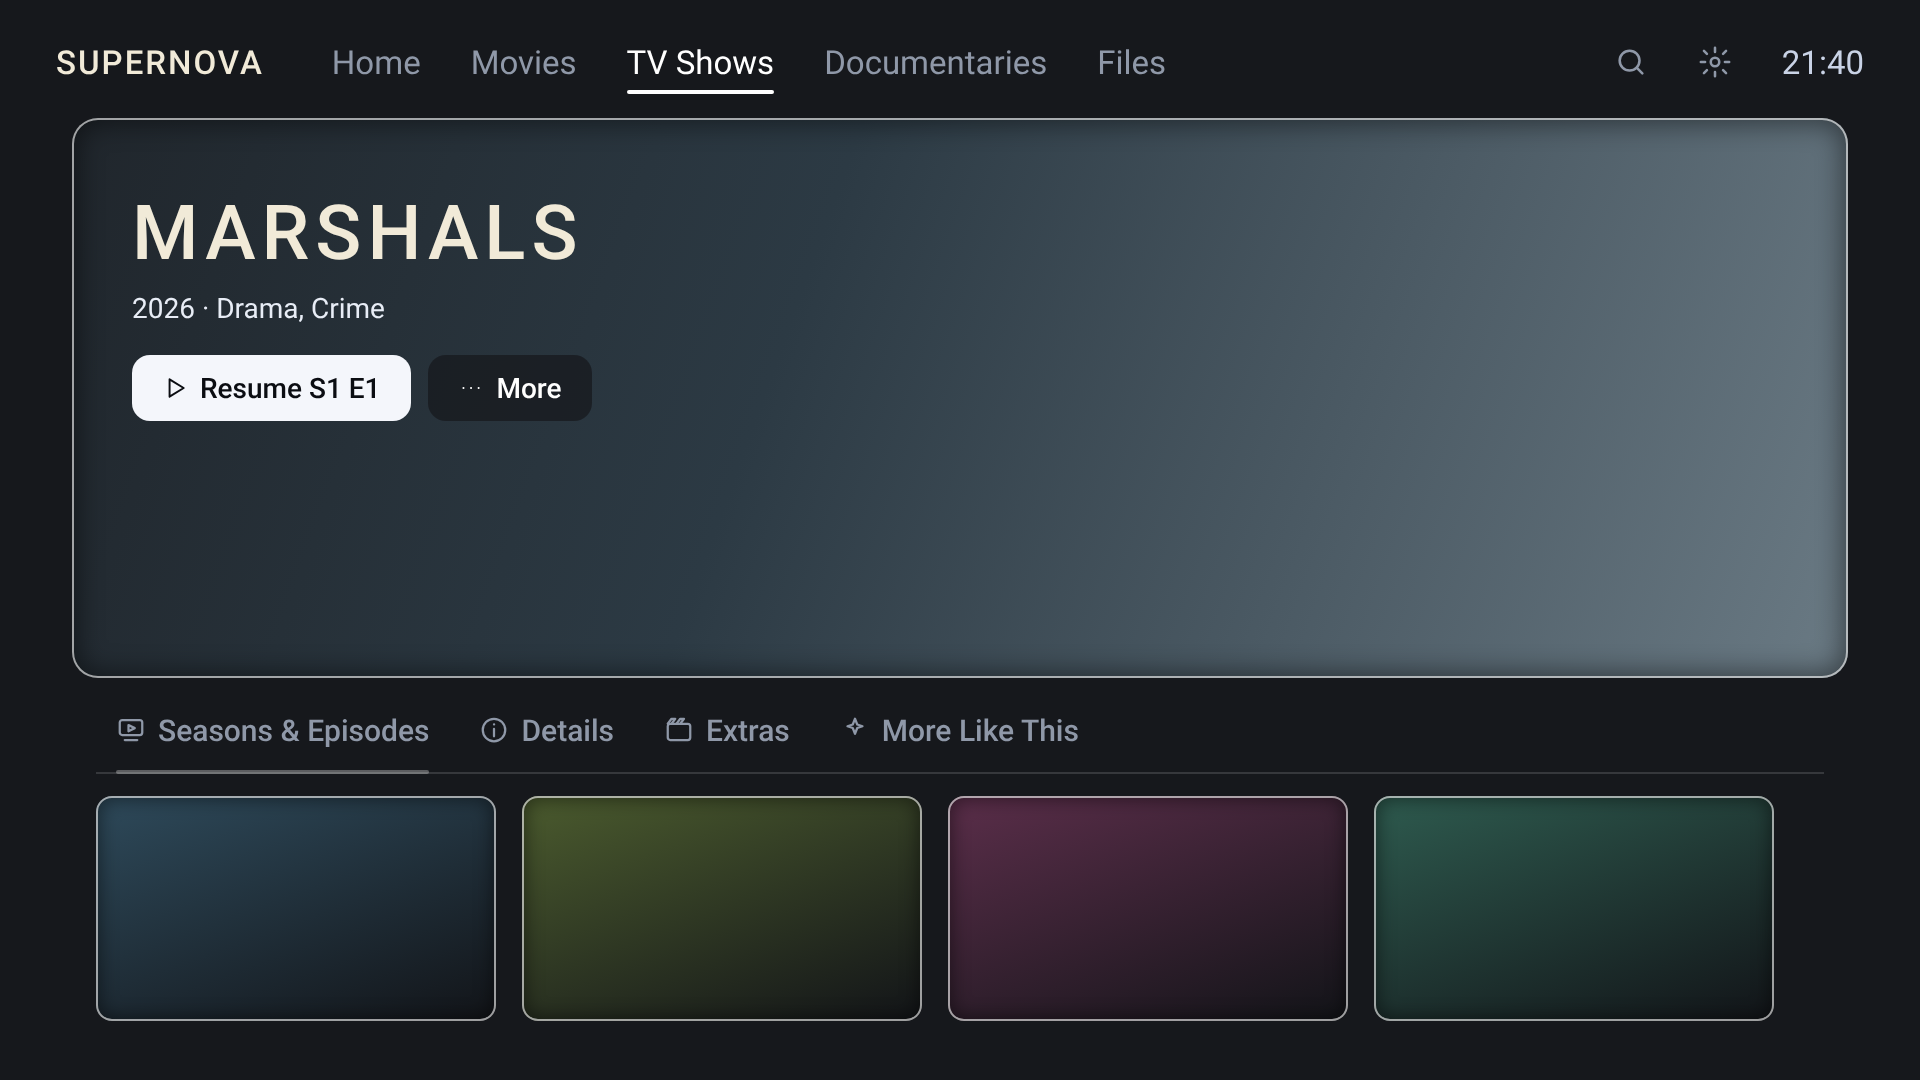
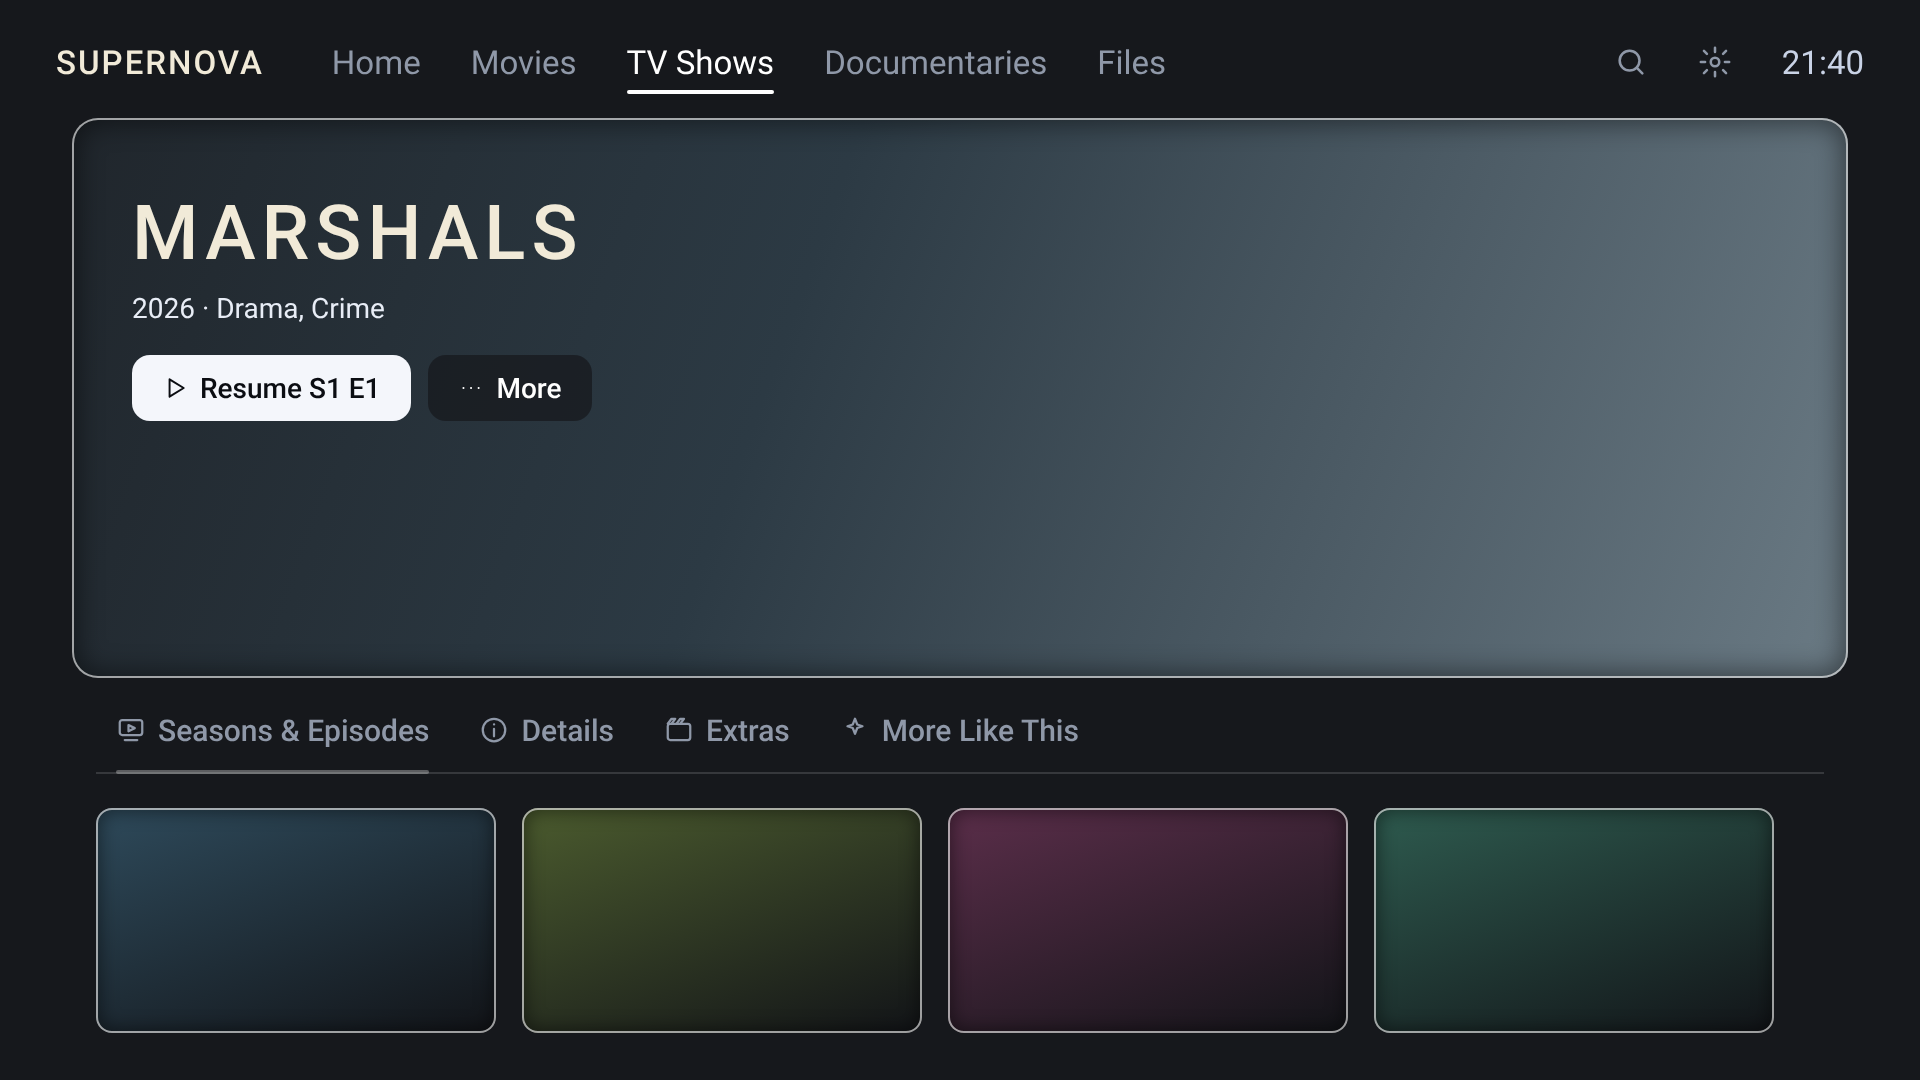
Focus and path rule approved; focused artwork ring; spacing fix
Claude-Session: https://claude.ai/code/session_01FtDZqamY6pdaUKwc7fqgiA

Changed region(s): [[0.0312, 0.7333, 0.9375, 0.7639]]

diff --git a/docs/design/proposals/tab-style/render-v3.js b/docs/design/proposals/tab-style/render-v3.js
@@ -104,7 +104,8 @@ body>.cards{position:absolute;left:96px;top:856px}
 .cards{display:flex;gap:26px}.card{width:400px;height:225px;border-radius:16px;flex:none;
 box-shadow:inset 0 0 0 2px rgba(255,255,255,.6),inset 0 0 18px 4px rgba(0,0,0,.45)}
 .card.grow{width:440px;height:248px;margin-top:-12px;box-shadow:0 0 0 5px #fff,inset 0 0 18px 4px rgba(0,0,0,.45),0 14px 34px rgba(0,0,0,.55)}
-.dpage{position:absolute;left:96px;right:96px;top:700px}`;
+.dpage{position:absolute;left:96px;right:96px;top:700px}
+.dpage .cards{margin-top:34px}`;
 (async () => {
   const browser = await chromium.launch();
   const tab = await browser.newPage({ viewport: { width: 1920, height: 1080 } });

diff --git a/CLAUDE.md b/CLAUDE.md
@@ -62,14 +62,20 @@ and how the owner works. **If you are new: read this file, then the "Start here"
     (Home and Details), every row card (Home, Details tabs: Seasons & Episodes, Extras, More Like This), the player's
     Chapters/Episodes strip and library-page posters — has one thin white line exactly on its edge (about 60%) with a
     soft inner shade just inside it, so the edge shows on light and dark artwork alike. Every item has the edge all the
-    time; **focus = the item grows** (as library pages do today). Mock-up `details-background/07-v17-top`. No blue
-    caption bars.
+    time. **Focused artwork grows and gets a solid, thick white ring** (owner, 12 Nov 2026), with space around it so
+    the grown card never crowds a line or heading. Hero cards show focus on their first button instead. Mock-ups
+    `details-background/07-v17-top`, `tab-style/15-v3`. No blue caption bars.
+  - **Focus and path (owner, 12 Nov 2026), everywhere incl. top bar and tabs:** white box with black text and icon =
+    where the remote is; bright white underline = the step you just came from; dull underline = everything else on
+    your path, including the open tab ahead of the remote. Moving along tabs switches the page; the top bar switches
+    after a short pause. Mock-ups `tab-style/08`–`15` (v3). Focus mock-ups are checked by the owner reading them
+    without captions.
   - **Text on the page (owner, 7 Nov 2026):** label/value pairs everywhere use soft near-white labels (`#C9D3E6`) and
     pure white, bolder values; "Unknown" stays quieter. Difference by weight, not dimness. Mock-up
     `details-background/08-v17-details-tab`.
   - One row card size everywhere (16:9, 400×225 px at 1080p; focused 440×248).
   - Home and Details heroes the same size (1776×820 at 1080p), with the next row or tabs peeking below; Home has
-    carousel dots. Tabs: the open one in a grey chip, the focused one filled white.
+    carousel dots. Tabs follow the focus-and-path rule below.
   - Missing information says "Unknown"; rows are never removed.
 
 ## Who does what

diff --git a/docs/0.157/OWNER_NOTES.md b/docs/0.157/OWNER_NOTES.md
@@ -835,3 +835,6 @@ right never limits the count.
   after a short pause, so a row's box always sits on its open item. Never more than three levels on screen.
 - A written breadcrumb under the top bar on deeper pages ("Movies › Marshals") remains an option alongside.
 - Replaces both the grey-chip and the plain-underline tab mock-ups (`tab-style/01–07`).
+- **§25 approved (owner, 12 Nov 2026):** read correctly from the pictures alone. Focused artwork: solid thick white ring
+  plus grow, with room around it. Recorded as app-wide rules in CLAUDE.md "Global look" (replaces the grey-chip tabs
+  and "focus = grows only").
